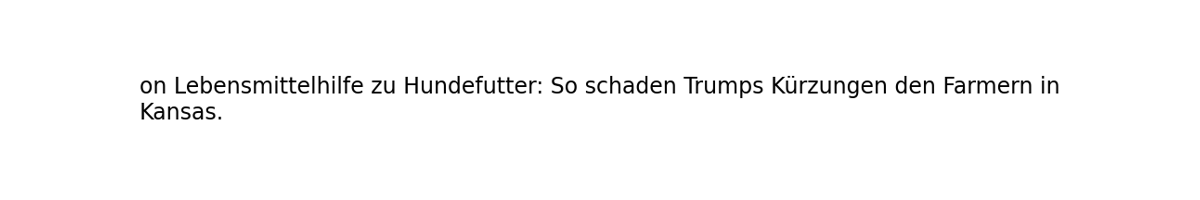
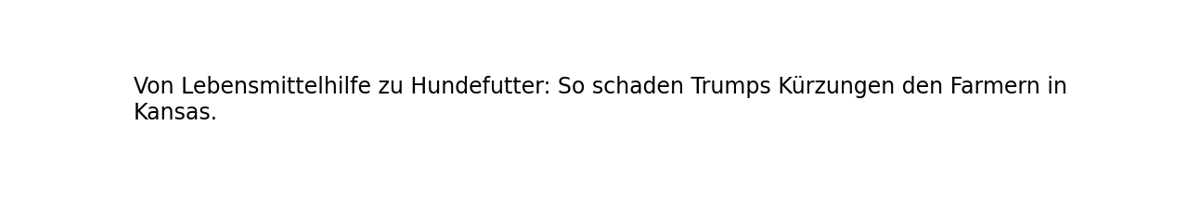
changed style

Changed region(s): [[0.0925, 0.36, 0.8942, 0.51], [0.0925, 0.51, 0.185, 0.6]]

diff --git a/change_detection_task/pages/thank_you_page.py b/change_detection_task/pages/thank_you_page.py
@@ -3,6 +3,14 @@ from core.scripts import user_repository
 import pandas as pd
 import time
 
+css = """
+.st-key-my_blue_container {
+    background-color: rgba(100, 100, 200, 0.3);
+}
+"""
+
+st.html(f"<style>{css}</style>")
+
 user_repository.set_progress(st.session_state.user_id, 7)
 st.write(f"Du hast {st.session_state.correct_answer_count} von {len(st.session_state.shuffled_keys_recognition)} Überschriften richtig eingeordnet.")
 dat = {"Du":[st.session_state.correct_answer_count],
@@ -11,28 +19,33 @@ dat_df = pd.DataFrame.from_dict(dat)
 
 if st.session_state.get("ending_timer") not in st.session_state:
         st.session_state.ending_timer = time.time()
+
 st.fragment(run_every=1)
 def auswertung():
     if time.time() - st.session_state.get("ending_timer") < 5:
         st.write("Wie hat die KI im Vergleich abgeschnitten?")
-    if time.time() - st.session_state.get("ending_timer") >= 5 and time.time() - st.session_state.get("ending_timer") < 10:
+    elif time.time() - st.session_state.get("ending_timer") >= 5 and time.time() - st.session_state.get("ending_timer") < 10:
+        st.write("Wie hat die KI im Vergleich abgeschnitten?")
         st.bar_chart(dat_df)
-    else: 
+    elif time.time() - st.session_state.get("ending_timer") >= 10: 
+        st.write("Wie hat die KI im Vergleich abgeschnitten?")
+        st.bar_chart(dat_df)
         if st.session_state.correct_answer_count == 6:  
-            st.write("Glückwunsch! Dein Gedächtnis ist genauso gut, wie das unseres Sprachmodells!")
+            st.balloons()
+            st.html("<h3>Glückwunsch! Dein Gedächtnis ist genauso gut, wie das unseres Sprachmodells!</h3>")
         elif st.session_state.correct_answer_count > 6:
             st.balloons()
-            st.write("Wow! Dein Gedächtnis ist sogar besser als das unseres Sprachmodells!")
+            st.html("<h3>Wow! Dein Gedächtnis ist sogar besser als das unseres Sprachmodells!</h3>")
             st.write("Das Sprachmodell hat nur 6 Überschriften richtig eingeordnet.")
         else:
-            st.write("Unser Sprachmodell hat mehr Überschriften richtig eingeordnet als du. Aber keine Sorge, das ist ganz normal!")
+            st.html("<h3>Unser Sprachmodell hat mehr Überschriften richtig eingeordnet als du. Aber keine Sorge, das ist ganz normal!</h3>")
             st.write("Das Sprachmodell hat 6 Überschriften richtig eingeordnet.")
         
-        with st.container(border=True):
-            st.html("<p><span color=blue>Als KI haben wir Llama3 8b verwendet.<br/> Dabei handelt es sich um ein relativ kleines LLM, das man auch lokal auf gängigen Computern laufen lassen kann.<br/>"
-        "Anstatt der Bilder, die du gesehen hast, haben wir Llama zwischen der Präsentation der Headlines und dem Gedächtnistest 4000 Zeichen einer Sherlock Holmes geschichte übergeben.</span>"
-        "Die Nachrichtenheadlines wurden aus dem Englischen übersetzt. Alle Änderungen an Headlines wurden durch verschiedene LLMs durchgeführt. " \
-        "Wir forschen daran, wie wir diese Techniken nutzen können um wahre Nachrichten so zu ändern, dass sie besser in Erinnerung bleiben, ohne dass der Inhalt verändert wird. " \
-        "Damit möchten wir den Einfluss von Misinformation und Fake News reduzieren.</p>")
+        with st.container(border=True, key="my_blue_container"):
+            st.html("<p>Als KI haben wir Llama3 8b verwendet.</p><p>Dabei handelt es sich um ein relativ kleines LLM, das man auch lokal auf gängigen Computern laufen lassen kann.</p>"
+        "<p>Anstatt der Bilder, die du gesehen hast, haben wir Llama zwischen der Präsentation der Headlines und dem Gedächtnistest 4000 Zeichen einer Sherlock Holmes geschichte übergeben.</p>"
+        "<p>Die Nachrichtenüberschriften wurden aus dem Englischen übersetzt.</p><p>Alle Änderungen an Headlines wurden durch verschiedene LLMs durchgeführt.</p>" \
+        "<p>Wir forschen daran, wie wir diese Techniken nutzen können um wahre Nachrichten so zu ändern, dass sie besser in Erinnerung bleiben, ohne dass der Inhalt verändert wird.</p>" \
+        "<p>Damit möchten wir den Einfluss von Misinformation und Fake News reduzieren.</p>")
 
 auswertung()

diff --git a/change_detection_task/pages/Experiment_description_page.py b/change_detection_task/pages/Experiment_description_page.py
@@ -38,7 +38,7 @@ st.markdown(hide_streamlit_style, unsafe_allow_html=True)
 st.html("<h1 style='text-align: center;'>Teste dein Gedächtnis!</h1><h3 style='text-align: center;'>In diesem Experiment, kannst du dein Gedächtnis mit dem eines großen Sprachmodels (LLM) messen.</h3")
 st.html("<p><b><i>Was ist ein LLM?</i></b></p> <p>Bei LLMs handelt es sich um KI-Modelle wie ChatGPT, die auf riesigen Textmengen trainiert wurden, um Texte zu generieren und verstehen.</p>")
 st.html("<p><b><i>Und wie ist das mit dem Gedächtnis gemeint?</i></b></p> <p>LLMs haben ein sogenanntes Context-Window. Das beschreibt die Menge an Text, die sie innerhalb einer Interaktion oder Unterhaltung miteinbeziehen können. Es ist also so etwas wie das \"Kurzzeitgedächtnis\" von LLMs.</p><p>Oft sind Informationen, die am Anfang einer längeren Interaktion stehen, für solche Modelle schwerer abrufbar, als Informationen die erst später auftauchen.</p>")
-st.html("""<p><b><i>Wie funktioniert das Experiment?</i></b></p><p>Im Folgenden wirst du 7 Nachrichtenüberschriften sehen, die du dir so gut wie möglich einprägen sollst. Im Anschluss wird deine Erinnerung getestet.</p>
+st.html("""<p><b><i>Wie funktioniert das Experiment?</i></b></p><p>Im Folgenden wirst du 6 Nachrichtenüberschriften sehen, die du dir so gut wie möglich einprägen sollst. Im Anschluss wird deine Erinnerung getestet.</p>
         <p>Die KI hat die gleichen Überschriften gesehen, allerdings wurde ihr danach auch noch eine Sherlock Holmes Geschichte präsentiert. So wurde eine längere Interaktion simuliert und wir können messen, wie gut sich das Modell an den Anfang der Unterhaltung erinnert.</p>
         <p>Am Ende des Experiments kannst du sehen, wie gut dein Gedächtnis im Vergleich zu dem der KI abgeschnitten hat.</p>
         <p>Drücke auf den Button unten, um mit dem Experiment zu beginnen.</p>""")
